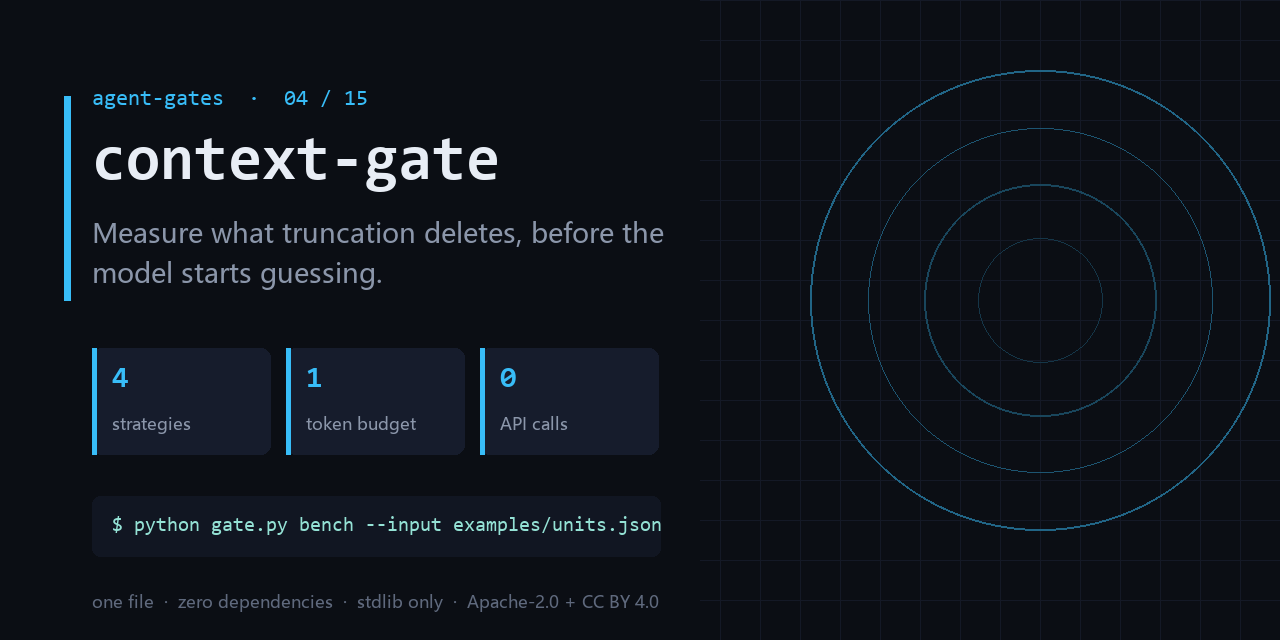
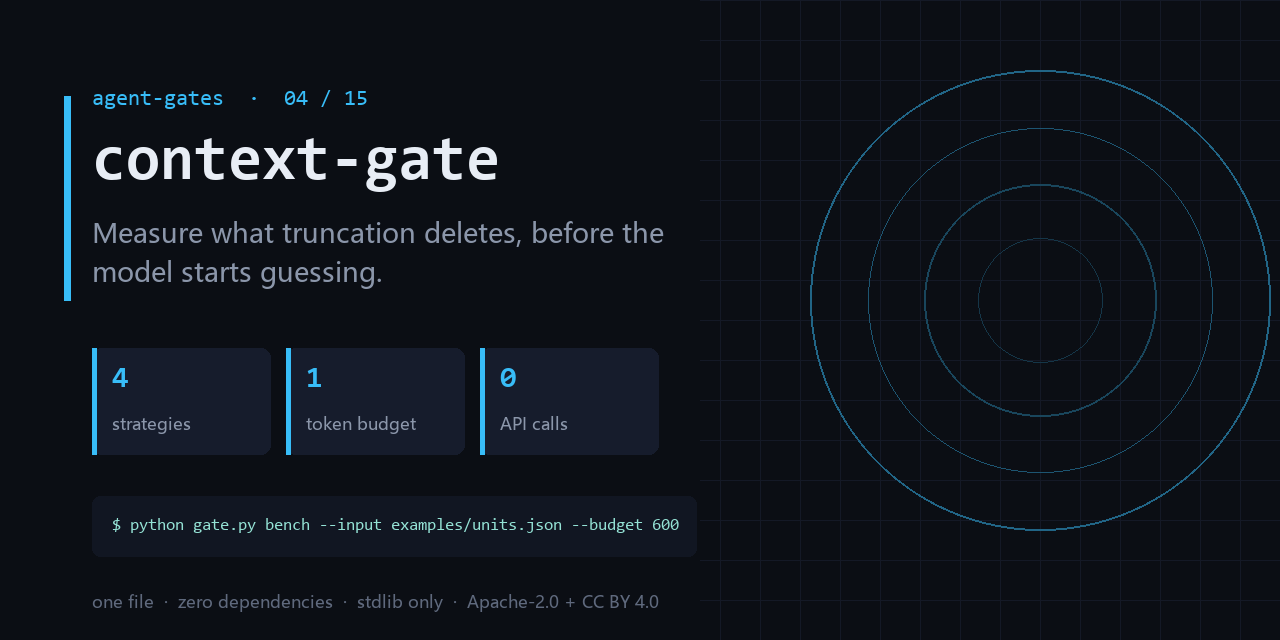
docs: add the series entry map, the hot-ready guarantee, and an honest surface line
Three changes, all of them about not overselling:

1. `## Start here` — fifteen links is a maze, one symptom is a door. A six-row
   symptom -> gate table, so the reader installs the gate they need instead of
   installing nothing (or all fifteen). Also states the star rule plainly:
   no exchange, no unlock, star trading is against GitHub's rules.
2. `## Hot-ready guarantee` — replaces "guaranteed to trend" with fifteen
   machine-checked structural properties, current score, and the script that
   recomputes them. GitHub never published its Trending ranking, so a promise
   about ranking cannot be true; a promise about structure can be verified.
3. The subtitle said `one file` on every repo. It was false on four of them
   (output-gate has 7 python files, complexity-ceiling 3, deadcode-gate and
   trail-gate 2). The line is now computed from the actual file count, and the
   same number is used on the social card. A false claim on the first screen
   costs more trust than it buys attention.

Changed region(s): [[0.0938, 0.8125, 0.5312, 0.8438], [0.0938, 0.4062, 0.2812, 0.4688]]

diff --git a/README.md b/README.md
@@ -110,6 +110,66 @@ mistaken for "it inspected my files".
 
 边界：It does not call a model — quality here is measured by unit survival, not answer accuracy.
 
+### 互推：只装一个的话，装哪个
+
+十五个链接是迷宫，一个症状是门。按上表挑一个，其余九个在下面 [The gates](#the-gates)。
+每个仓都能单独活：复制 `gate.py`，一条命令跑完，不共享运行时、不装包、不加配置。
+有星就给这一个，没有也不影响任何仓的可用性——没有任何门是「先给星才能用」。
+
+### 热门前置：保证结构，不保证排名
+
+本页承诺的是 **15 项可机器复核的结构特征**，当前 **15/15**（2026-10-20 复核）。
+GitHub 从未公开 Trending 的排序算法，所以任何「保证上热门」的说法都在描述一件它不可能知道的事；
+本仓不这么说。跑 `python hotness.py` 可自行复算每一条。
+
+## Start here (if you install only one)
+
+Fifteen links is a maze; one symptom is a door. Find your symptom, install that gate,
+ignore the rest until it hurts.
+
+| what you are seeing | install this |
+|---|---|
+| the bill is 10x normal and the trace is a wall of the same step | **[loop-gate](https://github.com/chenhz01/loop-gate)** |
+| the agent can delete prod and nobody signed off on that | **[permission-gate](https://github.com/chenhz01/permission-gate)** |
+| answers get worse after truncation and nobody knows what got dropped | **context-gate** ← you are here |
+| two rules in the prompt contradict each other; the model obeys neither | **[instruction-gate](https://github.com/chenhz01/instruction-gate)** |
+| AI text ships with fabricated links and empty phrases | **[output-gate](https://github.com/chenhz01/output-gate)** |
+| half the repo might be dead and nobody can prove which half | **[deadcode-gate](https://github.com/chenhz01/deadcode-gate)** |
+
+A gate you did not need is a gate you uninstall, so nothing here says "install all
+fifteen". Each repo stands alone: copy `gate.py`, run one command, no shared runtime,
+no package manager, no config file to grow.
+
+**On stars.** If this one saved you an incident, star it — that is the only signal I get
+about which gate to build next. There is no exchange: starring one repo does not owe me
+a star on another, and no gate here is unlocked by a star. Star trading breaks GitHub's
+rules and would poison the single honest metric this project has.
+
+## Hot-ready guarantee
+
+What is guaranteed is **structure**, not ranking. Fifteen properties, each one
+machine-checked against this repo — current score **15/15** (2026-10-20).
+
+Plain version: instead of asking you to trust a badge, I list what I actually checked,
+name the script that checks it, and let you re-run it. If one of these lines is false,
+that is a bug in my repo, not a matter of taste.
+
+- Falsifiable side: `python hotness.py` re-runs every check and prints the evidence line
+  for each one. You do not have to trust this paragraph.
+- Non-falsifiable side: GitHub has never published how Trending sorts repositories, so
+  any repo promising you a guaranteed spot is telling you something it cannot know.
+  This one does not make that promise.
+- If a claim on this page stops being true, that is a bug: open an issue and it gets
+  fixed in the same week, not in the next launch.
+
+What actually carries this repo:
+
+- the command in this README is byte-for-byte the command CI runs <sub>(54-char argv, exact match)</sub>
+- the output block is a real run of `examples/`, not a mock-up <sub>(Real output section)</sub>
+- CI asserts the exit code, so the badge can turn red — and it has <sub>(asserts exit=0)</sub>
+- every fixture is committed, so a fresh clone reproduces the output <sub>(1 file under examples/ tracked in git)</sub>
+- `* -text` in `.gitattributes`: same bytes on Windows and Linux <sub>(.gitattributes * -text)</sub>
+
 ## The gates
 
 | # | gate | what it stops |
